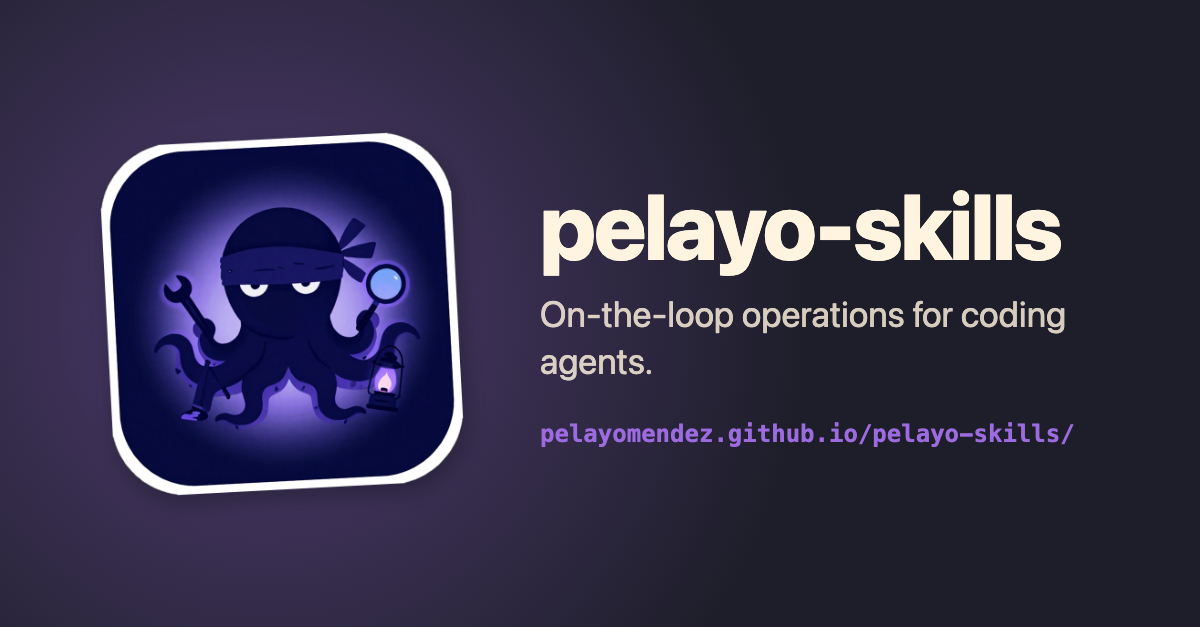
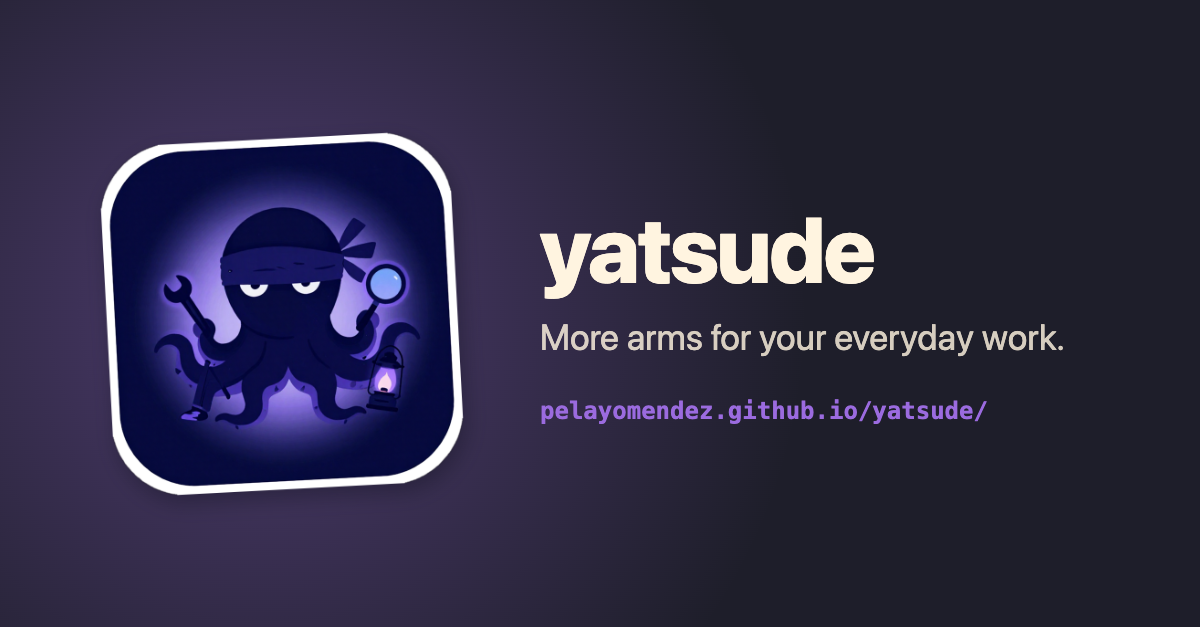
yatsude: more arms for your everyday work (#2)
* Claim: more arms for your everyday work (0.15.1)

* Rename to yatsude: a composable framework for AI-driven everyday work (0.16.0)

Changed region(s): [[0.4317, 0.303, 0.8942, 0.6061], [0.4317, 0.6364, 0.8942, 0.7273]]

diff --git a/docs/index.html b/docs/index.html
@@ -3,17 +3,17 @@
 <head>
   <meta charset="utf-8">
   <meta name="viewport" content="width=device-width, initial-scale=1">
-  <title>pelayo-skills · on-the-loop operations for coding agents</title>
-  <meta name="description" content="On-the-loop operations for coding agents: the agents are the machines, these skills run the line around them. Plan, hand out, check, watch, hand over, under a permission charter.">
+  <title>yatsude · more arms for your everyday work</title>
+  <meta name="description" content="More arms for your everyday work: coding agents work the daily loops (bug queue, MR reviews, backlog, the night shift) and stop for you on the calls. Small units, chained into flows, under a permission charter.">
   <link rel="icon" href="icon.png">
-  <meta property="og:title" content="pelayo-skills">
-  <meta property="og:description" content="On-the-loop operations for coding agents.">
-  <meta property="og:url" content="https://pelayomendez.github.io/pelayo-skills/">
-  <meta property="og:image" content="https://pelayomendez.github.io/pelayo-skills/og.png">
+  <meta property="og:title" content="yatsude">
+  <meta property="og:description" content="More arms for your everyday work.">
+  <meta property="og:url" content="https://pelayomendez.github.io/yatsude/">
+  <meta property="og:image" content="https://pelayomendez.github.io/yatsude/og.png">
   <meta property="og:image:width" content="1200">
   <meta property="og:image:height" content="627">
   <meta name="twitter:card" content="summary_large_image">
-  <!-- Generated by pelayomendez/brand (scripts/build.mjs) from tools/pelayo-skills.md: edit it there. -->
+  <!-- Generated by pelayomendez/brand (scripts/build.mjs) from tools/yatsude.md: edit it there. -->
   <style>
     :root { --ink: #1E1E2A; --cream: #FFF4E0; --accent: #9B6BDF; --dim: #a9a6b8; }
     * { box-sizing: border-box; }
@@ -41,10 +41,12 @@
 <main>
   <header>
     <img src="icon.png" alt="">
-    <h1>pelayo-skills</h1>
-    <p class="tag">The coding agents are the machines; these skills run the line around them, so one person can supervise from on the loop instead of in it. Small units, chained into flows.</p>
-    <p class="cta"><a class="primary" href="#install">Install</a><a href="https://github.com/pelayomendez/pelayo-skills">GitHub</a></p>
+    <h1>yatsude</h1>
+    <p class="tag">Coding agents work the daily loops: the bug queue, MR reviews, the backlog, the night shift. You make the calls, from on the loop instead of in it.</p>
+    <p class="cta"><a class="primary" href="#install">Install</a><a href="https://github.com/pelayomendez/yatsude">GitHub</a></p>
   </header>
+
+  <p>A composable framework for AI-driven everyday work: small skills, chained into flows, with slots for your own skills and a charter for what needs you. The name is Japanese: <em>yatsude</em> (八つ手), "eight hands".</p>
 
   <h2>Start here</h2>
   <table>
@@ -97,10 +99,10 @@
   <span class="mute">throughout: charter · tracker-move · handoff</span></pre>
 
   <h2 id="install">Install</h2>
-<pre>/plugin marketplace add pelayomendez/pelayo-skills
-/plugin install pelayo-skills@pelayomendez-skills
-/plugin install flow-map@pelayomendez-skills   <span class="mute"># optional pane</span></pre>
-  <p>Or <code>npx skills@latest add pelayomendez/pelayo-skills</code> to copy them into a project. Install one way, not both. The always-on instruction installs with a script; details in the <a href="https://github.com/pelayomendez/pelayo-skills#readme">README</a>.</p>
+<pre>/plugin marketplace add pelayomendez/yatsude
+/plugin install yatsude@yatsude
+/plugin install flow-map@yatsude   <span class="mute"># optional pane</span></pre>
+  <p>Or <code>npx skills@latest add pelayomendez/yatsude</code> to copy them into a project. Install one way, not both. The always-on instruction installs with a script; details in the <a href="https://github.com/pelayomendez/yatsude#readme">README</a>.</p>
 
   <footer>MIT · by <a href="https://github.com/pelayomendez">Pelayo Méndez</a></footer>
 </main>

diff --git a/README.md b/README.md
@@ -1,8 +1,10 @@
 <p align="center"><img src="assets/icon-sticker.png" width="128" alt=""></p>
 
-# pelayo-skills
+# yatsude
 
-On-the-loop operations for coding agents. [Landing page](https://pelayomendez.github.io/pelayo-skills/).
+More arms for your everyday work. [Landing page](https://pelayomendez.github.io/yatsude/).
+
+A composable framework for AI-driven everyday work: small skills, chained into flows, with slots for your own skills and a charter for what needs you. The name is Japanese: *yatsude* (八つ手), "eight hands".
 
 I use these to automate code production. The coding agents are the machines; these skills run the line around them: what to build next, who may do what, launching work, checking it, watching it and handing it over. The point is to supervise from **on the loop** (change the system when a result is wrong) instead of **in the loop** (redo each result by hand).
 
@@ -93,8 +95,8 @@ Your skill answers in its own words. The unit around it (`delegate`, `review-cha
 A pane beside the chat that lists your flows (with their steps) and units, one line each. Click one and it goes into the prompt. It ships as a separate plugin, so the skills stay plain markdown:
 
 ```
-/plugin marketplace add pelayomendez/pelayo-skills
-/plugin install flow-map@pelayomendez-skills
+/plugin marketplace add pelayomendez/yatsude
+/plugin install flow-map@yatsude
 ```
 
 Details: [plugins/flow-map](./plugins/flow-map/README.md).
@@ -136,8 +138,8 @@ Instructions and skills install separately, because one is always loaded and the
 As a Claude Code plugin, a read-only bundle you subscribe to:
 
 ```
-/plugin marketplace add pelayomendez/pelayo-skills
-/plugin install pelayo-skills@pelayomendez-skills
+/plugin marketplace add pelayomendez/yatsude
+/plugin install yatsude@yatsude
 ```
 
 The plugin also installs the one hook `tidy` needs: a session-start reminder that prints a line only when a pass is due (`TIDY_REMIND=0` silences it).
@@ -145,14 +147,14 @@ The plugin also installs the one hook `tidy` needs: a session-start reminder tha
 Or with [skills.sh](https://skills.sh), which copies them into your project so you can hack on them (no hook; install one way, not both, or you get every skill twice):
 
 ```bash
-npx skills@latest add pelayomendez/pelayo-skills
+npx skills@latest add pelayomendez/yatsude
 ```
 
 ### Instructions
 
 ```bash
-git clone https://github.com/pelayomendez/pelayo-skills
-cd pelayo-skills
+git clone https://github.com/pelayomendez/yatsude
+cd yatsude
 ./scripts/install-instructions.sh          # or --dry-run first
 ```
 

diff --git a/plugins/flow-map/README.md b/plugins/flow-map/README.md
@@ -22,11 +22,11 @@ The pane draws each flow with its numbered steps, then a `throughout:` line for 
 ## Install
 
 ```
-/plugin marketplace add pelayomendez/pelayo-skills
-/plugin install flow-map@pelayomendez-skills
+/plugin marketplace add pelayomendez/yatsude
+/plugin install flow-map@yatsude
 ```
 
-It reads the skill folders you point it at, by default `~/.claude/skills`: [pelayo-skills](../../README.md) or your own. Skills that came from an installed plugin live elsewhere (under `~/.claude/plugins/`) and are typed with the plugin's name (`/pelayo-skills:backlog`); flow-map fills the plain `/backlog`, so for those, link or install the skills into `~/.claude/skills` (for example with `npx skills add`).
+It reads the skill folders you point it at, by default `~/.claude/skills`: [yatsude](../../README.md) or your own. Skills that came from an installed plugin live elsewhere (under `~/.claude/plugins/`) and are typed with the plugin's name (`/yatsude:backlog`); flow-map fills the plain `/backlog`, so for those, link or install the skills into `~/.claude/skills` (for example with `npx skills add`).
 
 A click puts the skill at the start of the prompt and keeps anything you had typed after it. Nothing is sent until you press Enter.
 
